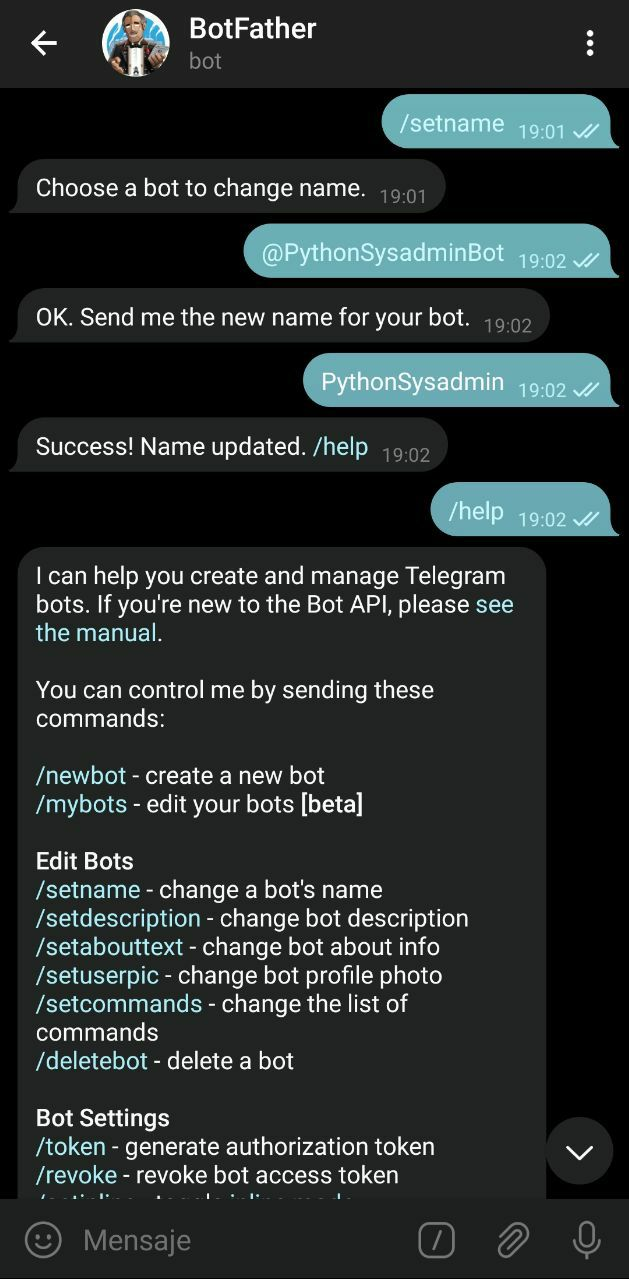
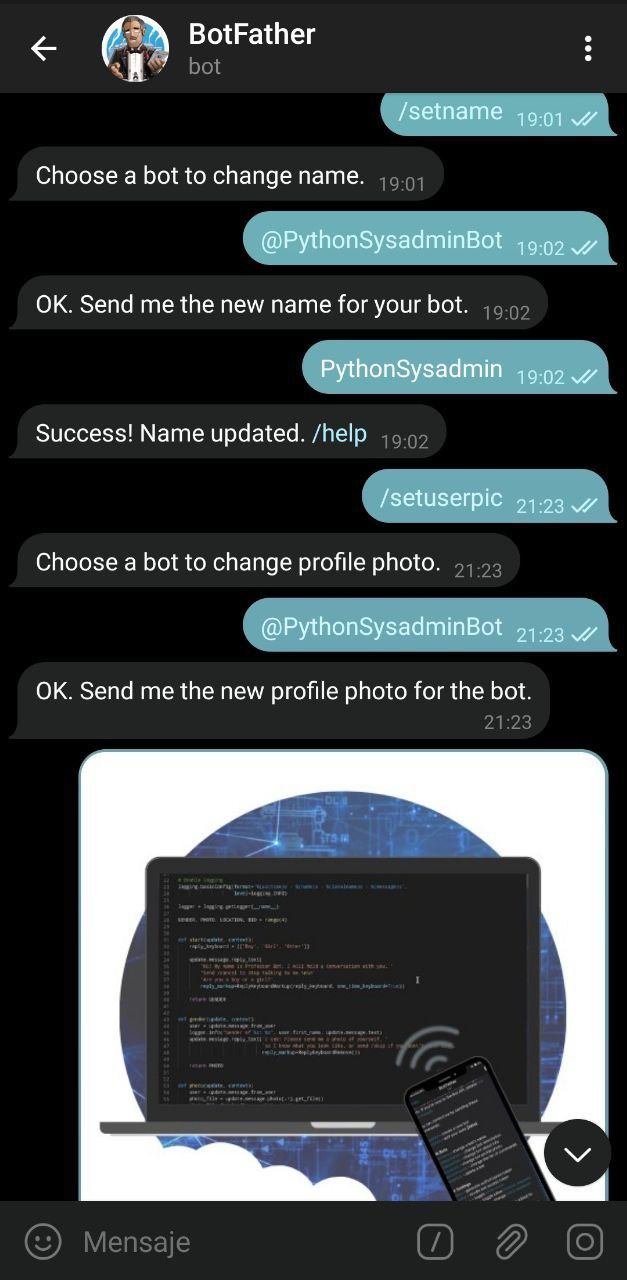
ultimos cambios

diff --git a/README.md b/README.md
@@ -12,7 +12,7 @@ Dispone de una serie de comandos para monitorizar el servidor como puede ser: `/
 - [`Bot de Telegram`](#bot)
     - [`Crear un bot de Telegram`](#crear)
 - [`Instalar python-telegram-bot`](#instalar)
-    - [`Entorno de desarrollo virutal`](#venv)
+    - [`Entorno de desarrollo virtual`](#venv)
     - [`Instalación con pip`](#pip)
     - [`Instalación clonando el repositorio`](#github)
 - [`Ejecutar bot`](#ejecutar)
@@ -66,16 +66,15 @@ El primer paso para crear un bot es iniciar [`BotFather`](https://telegram.me/Bo
 <img src="https://github.com/helee18/python_sysadmin/blob/master/images/botfather01.jpg" alt="BotFather" width="350"/>
 <img src="https://github.com/helee18/python_sysadmin/blob/master/images/botfather02.jpg" alt="start" width="350"/><br>
 
-Creamos un nuevo bot con `/newbot` y le ponemos nombre al bot y al usuario.<br>
+Creamos un nuevo bot con `/newbot` y le ponemos nombre al bot y al usuario. [`BotFather`](https://telegram.me/BotFather) nos devolverá el `token` que será el número identificativo de nuestro bot.<br>
 <img src="https://github.com/helee18/python_sysadmin/blob/master/images/botfather03.jpg" alt="newbot" width="350"/><br>
 
-Desde el [`BotFather`](https://telegram.me/BotFather) se puede modificar los bots. Por ejemplo, se puede cambiar el nombre con `/setname` y añadir una foto con `/setuserpic`. En cualquier momento podemos mandar el comadno `/help` para ver la lista de comandos que podemos usar dependiendo de lo que queramos hacer.<br>
-<img src="https://github.com/helee18/python_sysadmin/blob/master/images/botfather04.jpg" alt="setname" width="350"/>
-<img src="https://github.com/helee18/python_sysadmin/blob/master/images/botfather05.jpg" alt="setuserpic" width="350"/><br>
+Desde el [`BotFather`](https://telegram.me/BotFather) se puede modificar los bots. Por ejemplo, se puede cambiar el nombre con `/setname` y añadir una foto con `/setuserpic`.<br>
+<img src="https://github.com/helee18/python_sysadmin/blob/master/images/botfather04.jpg" alt="setname/setuserpic" width="350"/><br>
 
 Podemos añadir una descripción para nuestro bot con `\setdescription`. Esta aparecerá antes de iniciarlo.<br>
-<img src="https://github.com/helee18/python_sysadmin/blob/master/images/botfather06.jpg" alt="setdescription" width="350"/>
-<img src="https://github.com/helee18/python_sysadmin/blob/master/images/botfather07.jpg" alt="descripcion" width="350"/><br>
+<img src="https://github.com/helee18/python_sysadmin/blob/master/images/botfather05.jpg" alt="setdescription" width="350"/>
+<img src="https://github.com/helee18/python_sysadmin/blob/master/images/botfather06.jpg" alt="descripcion" width="350"/><br>
 
 [Inicio](#top)<br>
 
@@ -83,7 +82,7 @@ Podemos añadir una descripción para nuestro bot con `\setdescription`. Esta ap
 
 ## Instalar python-telegram-bot
 
-Para programar el bot se puede hacer uso de [`Python`](https://www.python.org/), un lenguaje de programación multiplataforma. Configuraremos al bot para que responda a las distintas peticiones que le hagamos. Esto lo haremos desarrollando un script en el que reflejaremos cada comando de entrada que recibirá el bot y como responderá este.
+Para programar el bot se puede hacer uso de [`Python`](https://www.python.org/), un lenguaje de programación multiplataforma. Configuraremos al bot para que responda a las distintas peticiones que le hagamos. Esto lo haremos desarrollando un script en el que reflejaremos cada comando de entrada que recibirá el bot y cómo responderá este.
 
 Para [`Python`](https://www.python.org/) existen varias librerías con las que desarrollar bots de [`Telegram`](https://web.telegram.org/) como por ejemplo [`python-telegram-bot`](https://github.com/python-telegram-bot/python-telegram-bot).
 
@@ -97,15 +96,15 @@ Se compone de varias clases, pero las dos más importantes son [`telegram.ext.Up
 
 <a name="venv"></a>
 
-### Entorno de desarrollo virutal 
+### Entorno de desarrollo virtual 
 Para la gestión de paquetes y programas de python existen unos entornos virtuales de desarrollo. Con estos entorno virtuales, no hace falta tener permisos de administrador para tener estos espacios aislados, directorios, en los que instalar distintas versiones de programas y paquetes.
 
-Para poder crear un entorno virtual para instalar el módulo [`python-telegram-bot`](https://github.com/python-telegram-bot/python-telegram-bot) primero tenemos que instalar el modulo [`venv`](https://docs.python.org/3/library/venv.html).
+Para poder crear un entorno virtual para instalar el módulo [`python-telegram-bot`](https://github.com/python-telegram-bot/python-telegram-bot) primero tenemos que instalar el módulo [`venv`](https://docs.python.org/3/library/venv.html).
 ```
 $ sudo apt-get install python3-venv
 ```
 
-Después creamos un entorno con le nombre que queramos.
+Después creamos un entorno con el nombre que queramos.
 ```
 $ python3 -m venv [nombre]
 ```
@@ -115,9 +114,9 @@ Activamos el entorno de desarrollo.
 $ source [nombre]/bin/activate
 ```
 
-Una vez activamos el entorno de desarrollo virtual estaremos dentro de él, y es donde tenemos que instalar el modulo de [`python-telegram-bot`](https://github.com/python-telegram-bot/python-telegram-bot), o cualquier otro. Tendremos que ejecutar nuestro script dentro para poder hacer uso de los módulos que instalemos.
+Una vez activamos el entorno de desarrollo virtual estaremos dentro de él, y es donde tenemos que instalar el módulo de [`python-telegram-bot`](https://github.com/python-telegram-bot/python-telegram-bot), o cualquier otro. Tendremos que ejecutar nuestro script dentro para poder hacer uso de los módulos que instalemos.
 
-Cuando se termine de trabajar dentro del entorno, salimos de este desactivandolo y no tendremos acceso a ninguno de los modulos instalados dentro de él.
+Cuando se termine de trabajar dentro del entorno, salimos de este desactivandolo y no tendremos acceso a ninguno de los módulos instalados dentro de él.
 ```
 $ deactivate
 ```
@@ -181,17 +180,17 @@ Cuando hayamos desarrollado el script de nuestro bot, ejecutamos este en segundo
 $ python3 bot.py &
 ```
 
-Para poder ver los procesos que tenemos en segundo plano escribimos `jobs` en nuestro terminal y aparece un número delante del estado del proceso. Para pasar a primer plano el bot y poder pararlo con `Ctrl-C` escibimos `fg` y el número que le corresponda.
+Para poder ver los procesos que tenemos en segundo plano escribimos `jobs` en nuestro terminal y aparece un número delante del estado del proceso. Para pasar a primer plano el bot y poder pararlo con `Ctrl-C` escribimos `fg` y el número que le corresponda.
 ```
 $ jobs
 
 [1]+  Ejecutando              python3 bot.py &
 ```
 ```
-fg 1
+$ fg 1
 ```
 
-Para ejecutar el bot se puede hacer en un `serverless` como [`AWS Lambda`](https://aws.amazon.com/es/lambda/), que permite ejecutar código y que el bot se quede a la espera de peticiones. `Serverless` es un modelo de ejecución en el que el proveedor de la nube (AWS) es responsable de ejecutar el fragmento de codigo mediante la asignación dinámica de recursos. 
+Para ejecutar el bot se puede hacer en un `serverless` como [`AWS Lambda`](https://aws.amazon.com/es/lambda/), que permite ejecutar código y que el bot se quede a la espera de peticiones. `Serverless` es un modelo de ejecución en el que el proveedor de la nube (AWS) es responsable de ejecutar el fragmento de código mediante la asignación dinámica de recursos. 
 
 [Inicio](#top)<br>
 
@@ -236,7 +235,7 @@ Después, para el registro de errores definiremos una función en la que haremos
 <a name="main"></a>
 
 ### Función main
-Al final del código, llamamos a la función principal `main`, en la cual tendremos todo el código del bot. Para llamar a la función, comprobamos que el código se está ejecutando en el script principal, y no sea importado en otro. Esto se comprueba comparando que el atributo `__name__` con `__main__` ya que `__name__` adopta el nombre de `__main__` cuando se ejecuta en el script principal o adopta le nombre del módulo importado cuando no es así.
+Al final del código, llamamos a la función principal `main`, en la cual tendremos todo el código del bot. Para llamar a la función, comprobamos que el código se está ejecutando en el script principal, y no sea importado en otro. Esto se comprueba comparando que el atributo `__name__` con `__main__` ya que `__name__` adopta el nombre de `__main__` cuando se ejecuta en el script principal o adopta el nombre del módulo importado cuando no es así.
 ```
 if __name__ == '__main__':
     main()
@@ -256,12 +255,12 @@ def main():
     updater = Updater('TOKEN', use_context=True)
 ```
 
-Para mayor seguridad, en el caso de que tengamos un repositorio, se puede crear otro archivo `.py` (auth.py) en el que definamos una variable a la que le asignamos el `token`. Este archivo no lo subiremos al repositorio, en el caso de utilizar el script del bot en otra maquina, tendremos que crear `auth.py` en el mismo directorio en el que esté el script antes de ejecutarlo.
+Para mayor seguridad, en el caso de que tengamos un repositorio, se puede crear otro archivo `.py` (auth.py) en el que definamos una variable a la que le asignamos el `token`. Este archivo no lo subiremos al repositorio, en el caso de utilizar el script del bot en otra máquina, tendremos que crear `auth.py` en el mismo directorio en el que esté el script antes de ejecutarlo.
 ```
 token = 'TOKEN'
 ```
 
-Para poder hacer uso de este, importamos el `token`del archivo `auth`.
+Para poder hacer uso de este, importamos el `token` del archivo `auth`.
 ```
 from auth import token
 ```
@@ -279,9 +278,9 @@ auth.py
 
 Subiremos este archivo a nuestro repositorio y después ignorará los archivos que hayamos incluido en este.
 ```
-git add .gitignore
-git commit -m "no subir a github"
-git push
+$ git add .gitignore
+$ git commit -m "no subir a github"
+$ git push
 ```
 [Inicio](#top)<br>
 
